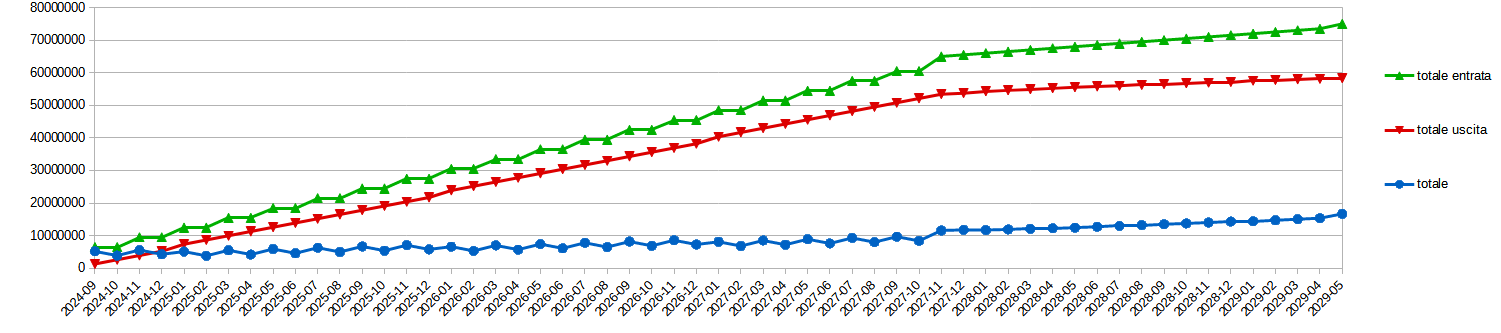
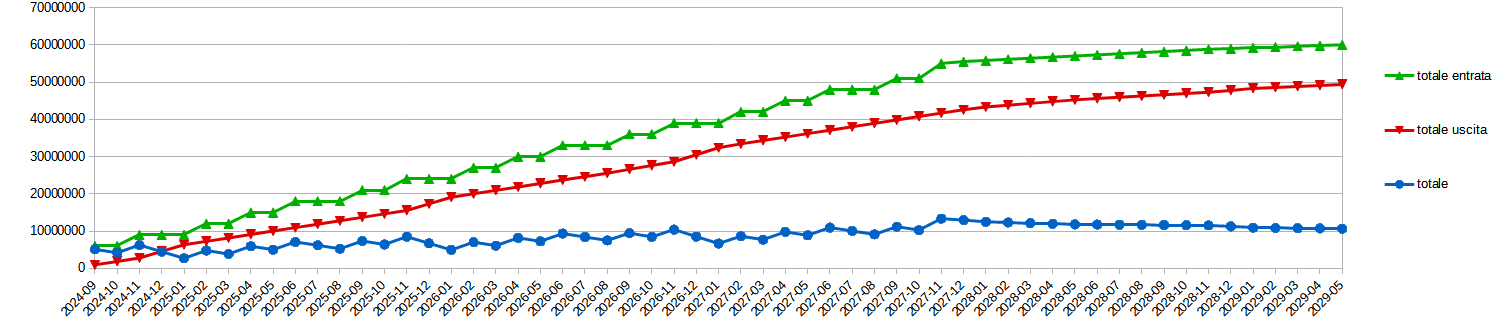
cash revisionato

diff --git a/docs/documentazione/planningC/cash_flow.md b/docs/documentazione/planningC/cash_flow.md
@@ -1,77 +1,86 @@
 # Cash flow
 
-|date|flusso in entrata|flusso in uscita|totale entrata|totale uscita|totale|
+| | | | | | |
 |-|-|-|-|-|-|
-|2024-09|6500000|1304000|6500000|1304000|5196000|
-|2024-10| |1304000|6500000|2608000|3892000|
-|2024-11|3000000|1304000|9500000|3912000|5588000|
-|2024-12| |1304000|9500000|5216000|4284000|
-|2025-01|3000000|2154000|12500000|7370000|5130000|
-|2025-02| |1304000|12500000|8674000|3826000|
-|2025-03|3000000|1304000|15500000|9978000|5522000|
-|2025-04| |1304000|15500000|11282000|4218000|
-|2025-05|3000000|1304000|18500000|12586000|5914000|
-|2025-06| |1304000|18500000|13890000|4610000|
-|2025-07|3000000|1304000|21500000|15194000|6306000|
-|2025-08| |1304000|21500000|16498000|5002000|
-|2025-09|3000000|1304000|24500000|17802000|6698000|
-|2025-10| |1304000|24500000|19106000|5394000|
-|2025-11|3000000|1304000|27500000|20410000|7090000|
-|2025-12| |1304000|27500000|21714000|5786000|
-|2026-01|3000000|2154000|30500000|23868000|6632000|
-|2026-02| |1304000|30500000|25172000|5328000|
-|2026-03|3000000|1304000|33500000|26476000|7024000|
-|2026-04| |1304000|33500000|27780000|5720000|
-|2026-05|3000000|1304000|36500000|29084000|7416000|
-|2026-06| |1304000|36500000|30388000|6112000|
-|2026-07|3000000|1304000|39500000|31692000|7808000|
-|2026-08| |1304000|39500000|32996000|6504000|
-|2026-09|3000000|1304000|42500000|34300000|8200000|
-|2026-10| |1304000|42500000|35604000|6896000|
-|2026-11|3000000|1304000|45500000|36908000|8592000|
-|2026-12| |1304000|45500000|38212000|7288000|
-|2027-01|3000000|2154000|48500000|40366000|8134000|
-|2027-02| |1304000|48500000|41670000|6830000|
-|2027-03|3000000|1304000|51500000|42974000|8526000|
-|2027-04| |1304000|51500000|44278000|7222000|
-|2027-05|3000000|1304000|54500000|45582000|8918000|
-|2027-06| |1304000|54500000|46886000|7614000|
-|2027-07|3000000|1304000|57500000|48190000|9310000|
-|2027-08| |1304000|57500000|49494000|8006000|
-|2027-09|3000000|1304000|60500000|50798000|9702000|
-|2027-10| |1304000|60500000|52102000|8398000|
-|2027-11|4500000|1304000|65000000|53406000|11594000|
-|2027-12|500000|314000|65500000|53720000|11780000|
-|2028-01|500000|551500|66000000|54271500|11728500|
-|2028-02|500000|314000|66500000|54585500|11914500|
-|2028-03|500000|314000|67000000|54899500|12100500|
-|2028-04|500000|314000|67500000|55213500|12286500|
-|2028-05|500000|314000|68000000|55527500|12472500|
-|2028-06|500000|240250|68500000|55767750|12732250|
-|2028-07|500000|240250|69000000|56008000|12992000|
-|2028-08|500000|240250|69500000|56248250|13251750|
-|2028-09|500000|240250|70000000|56488500|13511500|
-|2028-10|500000|240250|70500000|56728750|13771250|
-|2028-11|500000|240250|71000000|56969000|14031000|
-|2028-12|500000|184000|71500000|57153000|14347000|
-|2029-01|500000|421500|72000000|57574500|14425500|
-|2029-02|500000|184000|72500000|57758500|14741500|
-|2029-03|500000|184000|73000000|57942500|15057500|
-|2029-04|500000|184000|73500000|58126500|15373500|
-|2029-05|1500000|184000|75000000|58310500|16689500|
+|date|flusso in entrata|flusso in uscita|totale entrata|totale uscita|totale|
+|2024-09|6000000|920250|6000000|920250|5079750|
+|2024-10| |920250|6000000|1840500|4159500|
+|2024-11|3000000|920250|9000000|2760750|6239250|
+|2024-12| |1786500|9000000|4547250|4452750|
+|2025-01| |1770250|9000000|6317500|2682500|
+|2025-02|3000000|920250|12000000|7237750|4762250|
+|2025-03| |920250|12000000|8158000|3842000|
+|2025-04|3000000|920250|15000000|9078250|5921750|
+|2025-05| |920250|15000000|9998500|5001500|
+|2025-06|3000000|920250|18000000|10918750|7081250|
+|2025-07| |920250|18000000|11839000|6161000|
+|2025-08| |920250|18000000|12759250|5240750|
+|2025-09|3000000|920250|21000000|13679500|7320500|
+|2025-10| |920250|21000000|14599750|6400250|
+|2025-11|3000000|920250|24000000|15520000|8480000|
+|2025-12| |1786500|24000000|17306500|6693500|
+|2026-01| |1770250|24000000|19076750|4923250|
+|2026-02|3000000|920250|27000000|19997000|7003000|
+|2026-03| |920250|27000000|20917250|6082750|
+|2026-04|3000000|920250|30000000|21837500|8162500|
+|2026-05| |920250|30000000|22757750|7242250|
+|2026-06|3000000|920250|33000000|23678000|9322000|
+|2026-07| |920250|33000000|24598250|8401750|
+|2026-08| |920250|33000000|25518500|7481500|
+|2026-09|3000000|1040250|36000000|26558750|9441250|
+|2026-10| |1020250|36000000|27579000|8421000|
+|2026-11|3000000|1026025|39000000|28605025|10394975|
+|2026-12| |1889650|39000000|30494675|8505325|
+|2027-01| |1870250|39000000|32364925|6635075|
+|2027-02|3000000|1020250|42000000|33385175|8614825|
+|2027-03| |920250|42000000|34305425|7694575|
+|2027-04|3000000|920250|45000000|35225675|9774325|
+|2027-05| |920250|45000000|36145925|8854075|
+|2027-06|3000000|920250|48000000|37066175|10933825|
+|2027-07| |920250|48000000|37986425|10013575|
+|2027-08| |920250|48000000|38906675|9093325|
+|2027-09|3000000|920250|51000000|39826925|11173075|
+|2027-10| |920250|51000000|40747175|10252825|
+|2027-11|4000000|920250|55000000|41667425|13332575|
+|2027-12|500000|894000|55500000|42561425|12938575|
+|2028-01|300000|764000|55800000|43325425|12474575|
+|2028-02|300000|474000|56100000|43799425|12300575|
+|2028-03|300000|474000|56400000|44273425|12126575|
+|2028-04|300000|474000|56700000|44747425|11952575|
+|2028-05|300000|474000|57000000|45221425|11778575|
+|2028-06|300000|342750|57300000|45564175|11735825|
+|2028-07|300000|342750|57600000|45906925|11693075|
+|2028-08|300000|342750|57900000|46249675|11650325|
+|2028-09|300000|342750|58200000|46592425|11607575|
+|2028-10|300000|342750|58500000|46935175|11564825|
+|2028-11|300000|342750|58800000|47277925|11522075|
+|2028-12|200000|474000|59000000|47751925|11248075|
+|2029-01|200000|554000|59200000|48305925|10894075|
+|2029-02|200000|264000|59400000|48569925|10830075|
+|2029-03|200000|264000|59600000|48833925|10766075|
+|2029-04|200000|264000|59800000|49097925|10702075|
+|2029-05|200000|264000|60000000|49361925|10638075|
+
 
 <p align="center">
   <img src="../../img/cash.png" alt="Grafico cash flow" />
 </p>
 
 | motivazione | costo |
-|-|-|
-|costo mensile infrastrutture (bollette etc)|54000|
-|costo mensile totale senior|4000|
-|costo mensile totale junior|2250|
-|costo mensile medio x dip|3125|
-|costo annuale licenze|700000|
-|costo licenze considerando che 1/8 è occupato in questo progetto|87500|
+|-|-| 
+|numero dipendenti|150| 
+|costo mensile medio x dip|5775| 
+|costo mensile totale junior|3150| 
+|costo mensile totale senior|8400| 
+|costo mensile totale no dip|54000| 
+|costo annuale licenze|700000| 
+|costo licenze considerando che 1/6 è occupato in questo progetto|140000| 
 |costo annuale edificio|150000|
-|costo totale annuale licenza parziale|237500|
-|costo annuale totale licenza piena|850000|
+|costo annuale totale licenza piena|850000| 
+|costo totale annuale licenza parziale|290000| 
+|outsourcing voice acting|20000| 
+|outsourcing trailer|600000| 
+
+
+
+

diff --git a/docs/documentazione/planningC/product_backlog.md b/docs/documentazione/planningC/product_backlog.md
@@ -42,7 +42,7 @@ responsabili team riportano punteggi
 | 28 |Individuare azienda per outsurcing trailer cinematico | 0 | | | | | | | | | | | | | | | | | | | | |
 | 29 |Individuare aree di gioco già sviluppate o quanto più possibile vincine al completamento dello sviluppo | 1 | | | | | | | | | | | | | | | | | | | | |
 | 30 |Meeting con Mintendo per determinare quali elementi esporre e quali no nei trailer | 1 | | | | | | | | | | | | | | | | | | | | |
-| 31 |Comporre trailer| > 21 | | | | | | | | | | | | | | | | | | | | |
+| 31 |Comporre trailer| 21 | | | | | | | | | | | | | | | | | | | | |
 | 32 |Determinare una sezione del videogioco su cui basare la demo |  1 | | | | | | | | | | | | | | | | | | | | |
 | 33 |Rimuovere gli aspetti del gioco non rilevanti per l'esperienza della demo| 26 | | | | | | | | | | | | | | | | | | | | |
 | 34 |Modifica elementi di trama per adattarli al contesto della demo|  39| | | | | | | | | | | | | | | | | | | | |
